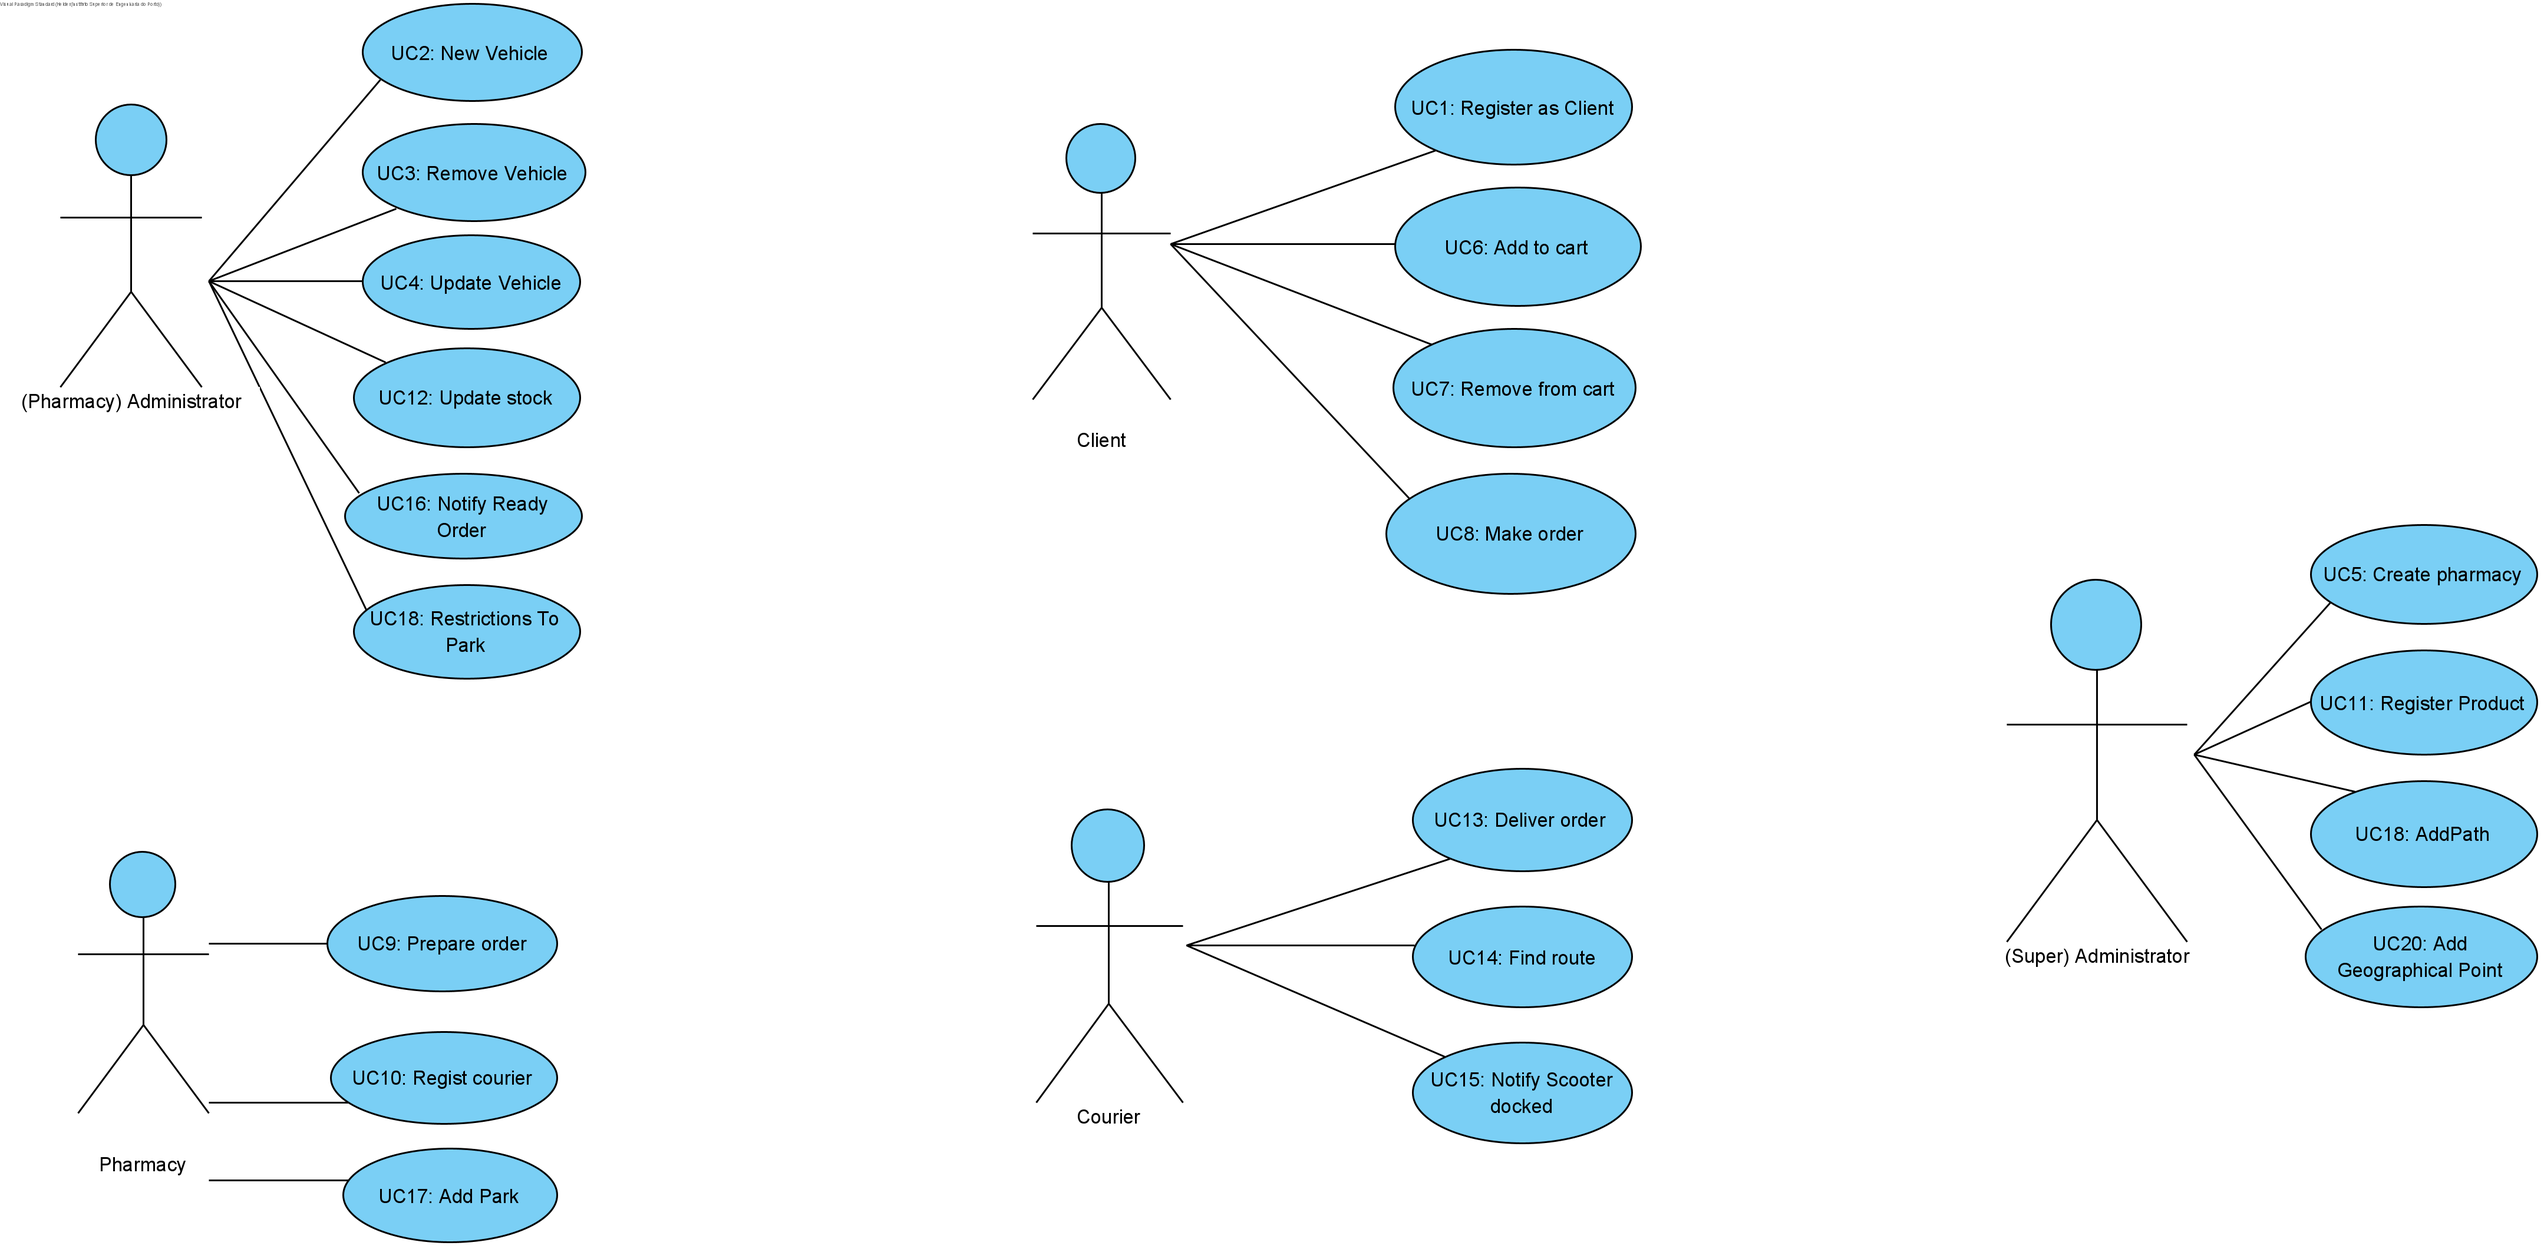
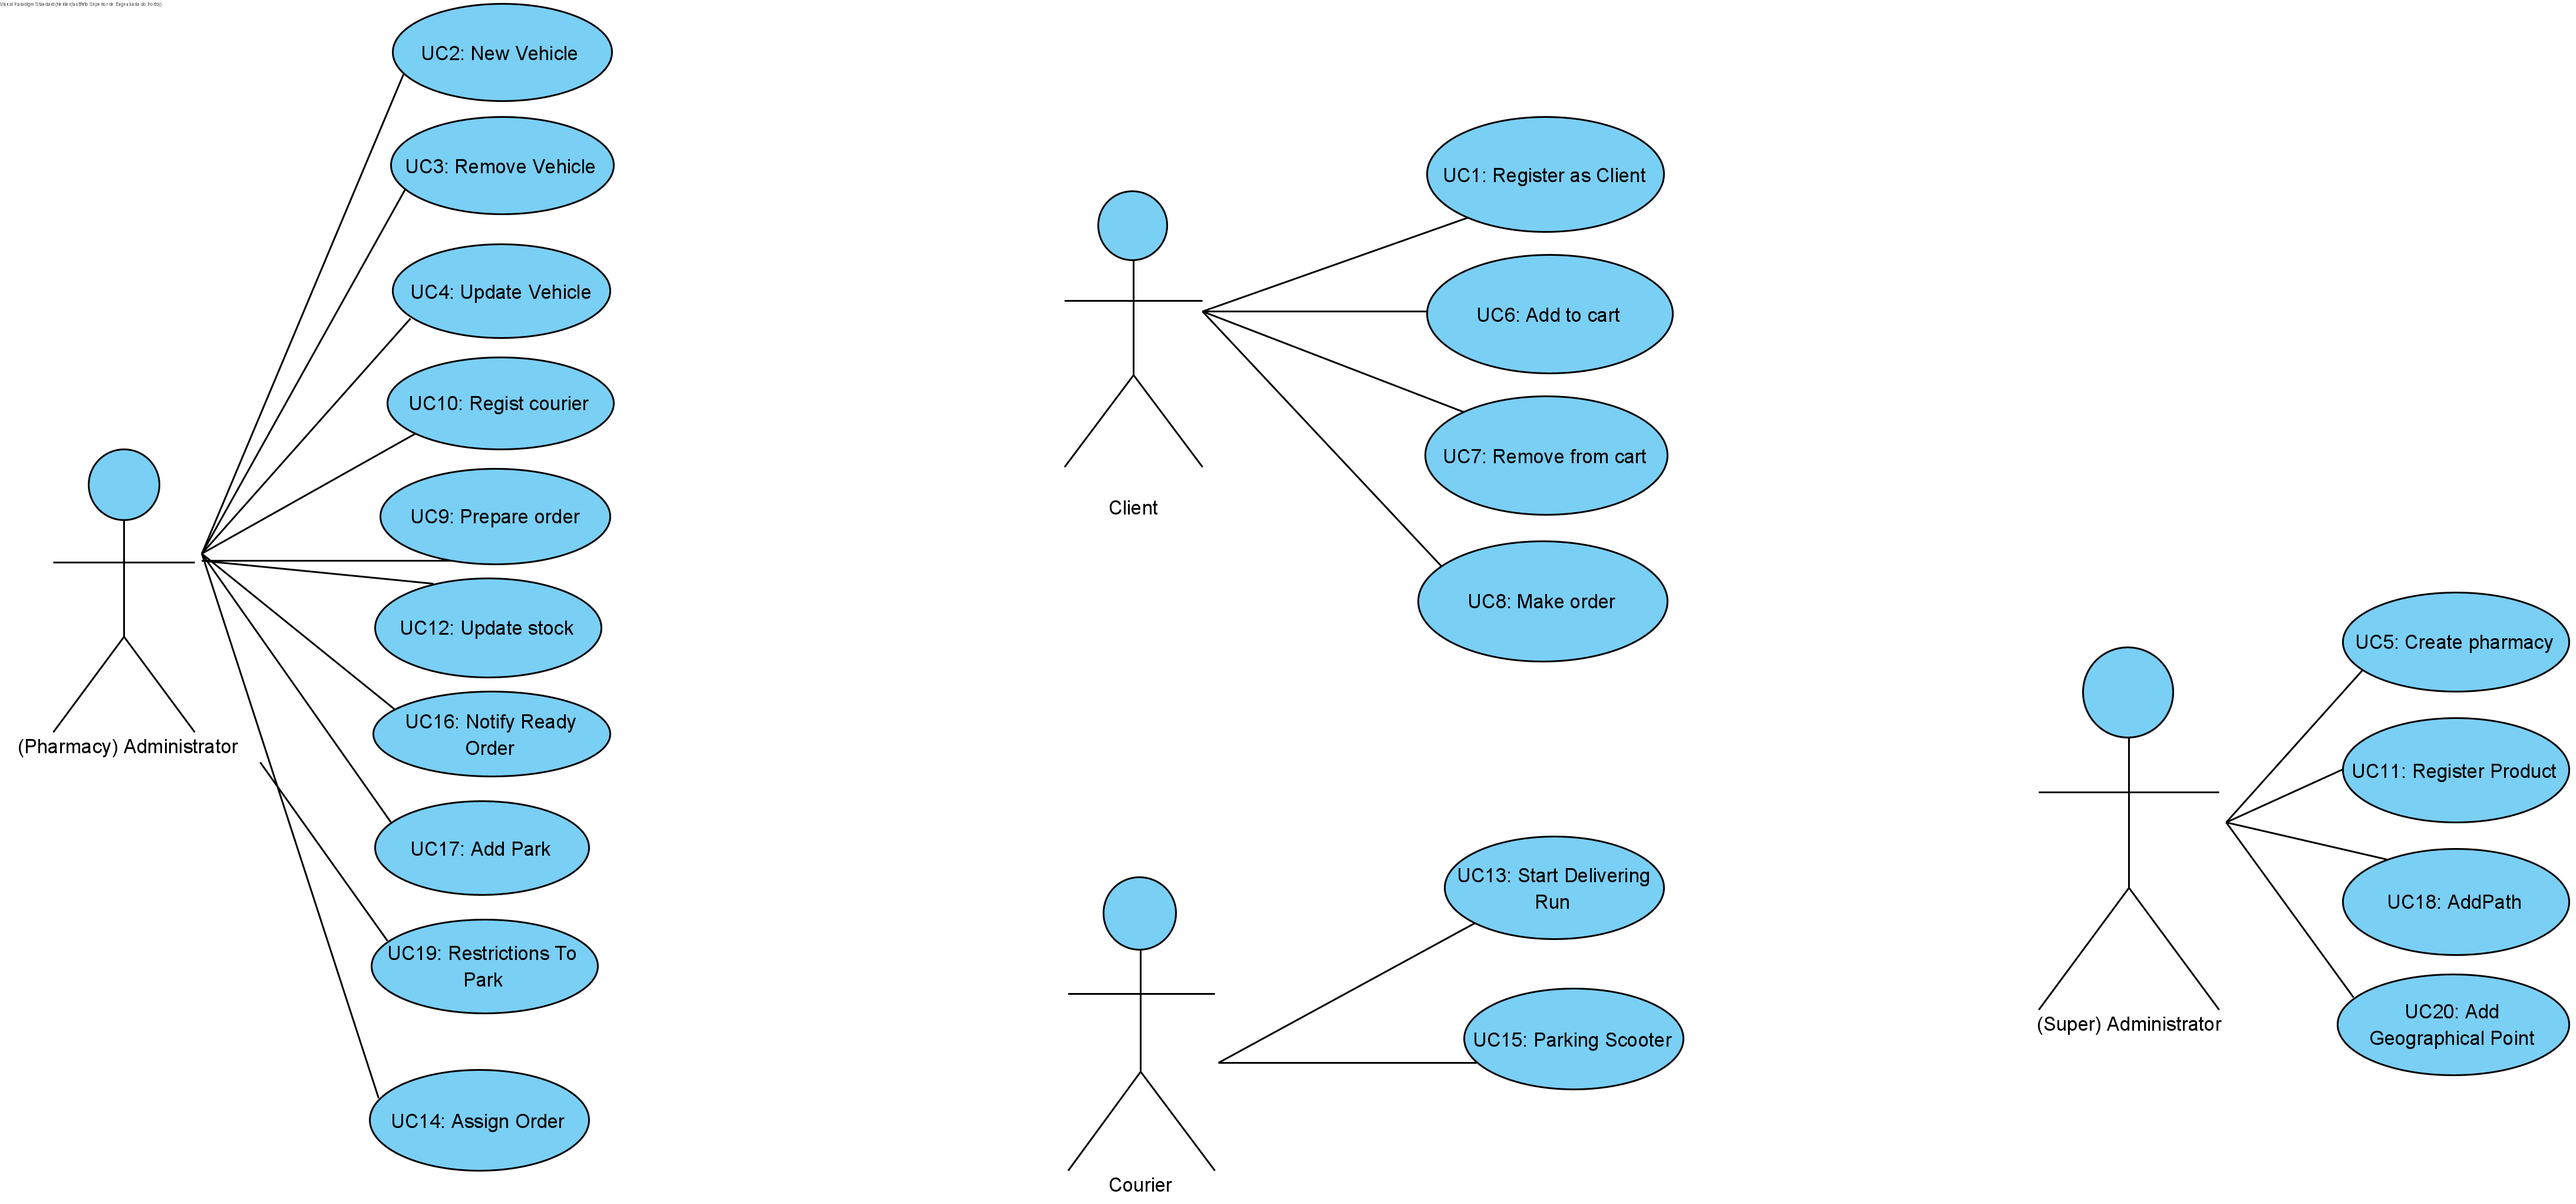
MEN09-214 #close Parking Scooter [Analysis]

diff --git a/documentation/use_cases/UC15/UC15_ParkingScooter.md b/documentation/use_cases/UC15/UC15_ParkingScooter.md
@@ -1,0 +1,32 @@
+# UC15 - Parking Scooter
+
+## 1. Requirements Engineering
+The courier starts parking a scooter. The system sends e-mail notification stating that the vehicle is correctly locked . The courier selects a option to know an estimate time for full charge. The system informs the estimated time for full charge.
+
+## SSD
+![UC15_SSD.png](UC15_SSD.png)
+
+#### Main Actor
+
+Courier
+
+#### Stakeholders and their interests
+* ** Pharmacy: Wants to have their scooter well parked.
+* ** Courier: Wants to have their scooter full charged in order to delivery orders.
+
+#### Pre Conditions
+The scooter has to be registed.
+
+## 2. Engineering Design
+
+## Sequence Diagram
+![UC15_SD.png](UC15_SD.png)
+
+
+
+## Class Diagram
+![UC15_CD.png](UC15_CD.png)
+
+____
+
+[Back to Use Cases](../UseCases.md)

diff --git a/documentation/use_cases/use_cases.md b/documentation/use_cases/use_cases.md
@@ -21,7 +21,7 @@ A use case diagram was developed to understand the responsible actor or actors f
 | UC12 | [Update Stock](UC12/UC12_UpdateStock.md) |
 | UC13 | [Start Delivery Run](UC13/UC13_StartDeliveryOrder.md) |
 | UC14 | [Assign Orders](UC14/UC14_AssignOrders.md) |
-| UC15 | [Notify Scooter Docked](UC15/UC15_NotifyScooterDocked.md) |
+| UC15 | [Parking Scooter](UC15/UC15_ParkingScooter.md) |
 | UC16 | [Notify Order Ready](UC16/UC16_OrderReady.md) |
 | UC17 | [Add Park](UC17/UC17_AddPark.md) |
 | UC18 | [Add Path](UC18/UC18_AddPath.md) |
